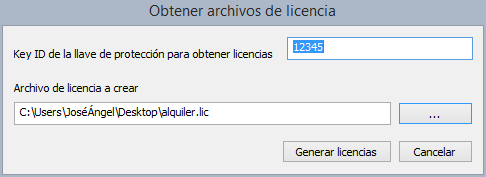
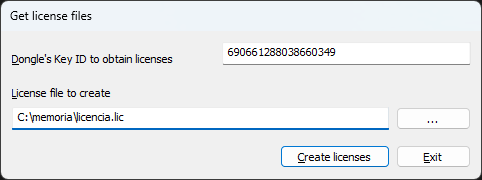
Obtener archivos licencia: captura nueva y frase corregida

Changed region(s): [[0.0, 0.0, 1.0, 1.0]]

diff --git a/src/acerca-llaves-proteccion/programas-relacionados-con-licencias-y-llaves-de-proteccion/consolidar-alquiler-offline/obtener-archivos-licencia.md b/src/acerca-llaves-proteccion/programas-relacionados-con-licencias-y-llaves-de-proteccion/consolidar-alquiler-offline/obtener-archivos-licencia.md
@@ -7,7 +7,7 @@ Este archivo se puede utilizar con posterioridad con el programa [Consolidar alq
 
 Este programa requiere conexión a internet para obtener las licencias.
 
-Si el equipo con la llave de protección en la que se quieren programar los alquileres dispone de conexión a internet, utiliza mejor el programa [Consolidar alquiler](/acerca-llaves-proteccion/programas-relacionados-con-licencias-y-llaves-de-proteccion/consolidar-alquiler.md) pues este programa la llave de protección sin necesidad de crear ningún archivo.
+Si el equipo con la llave de protección en la que se quieren programar los alquileres dispone de conexión a internet, utiliza mejor el programa [Consolidar alquiler](/acerca-llaves-proteccion/programas-relacionados-con-licencias-y-llaves-de-proteccion/consolidar-alquiler.md) pues este programa programa la llave de protección sin necesidad de crear ningún archivo.
 
 ![Captura del programa Obtener archivos de licencia](../../../images/obtener-archivos-licencia.png)
 
